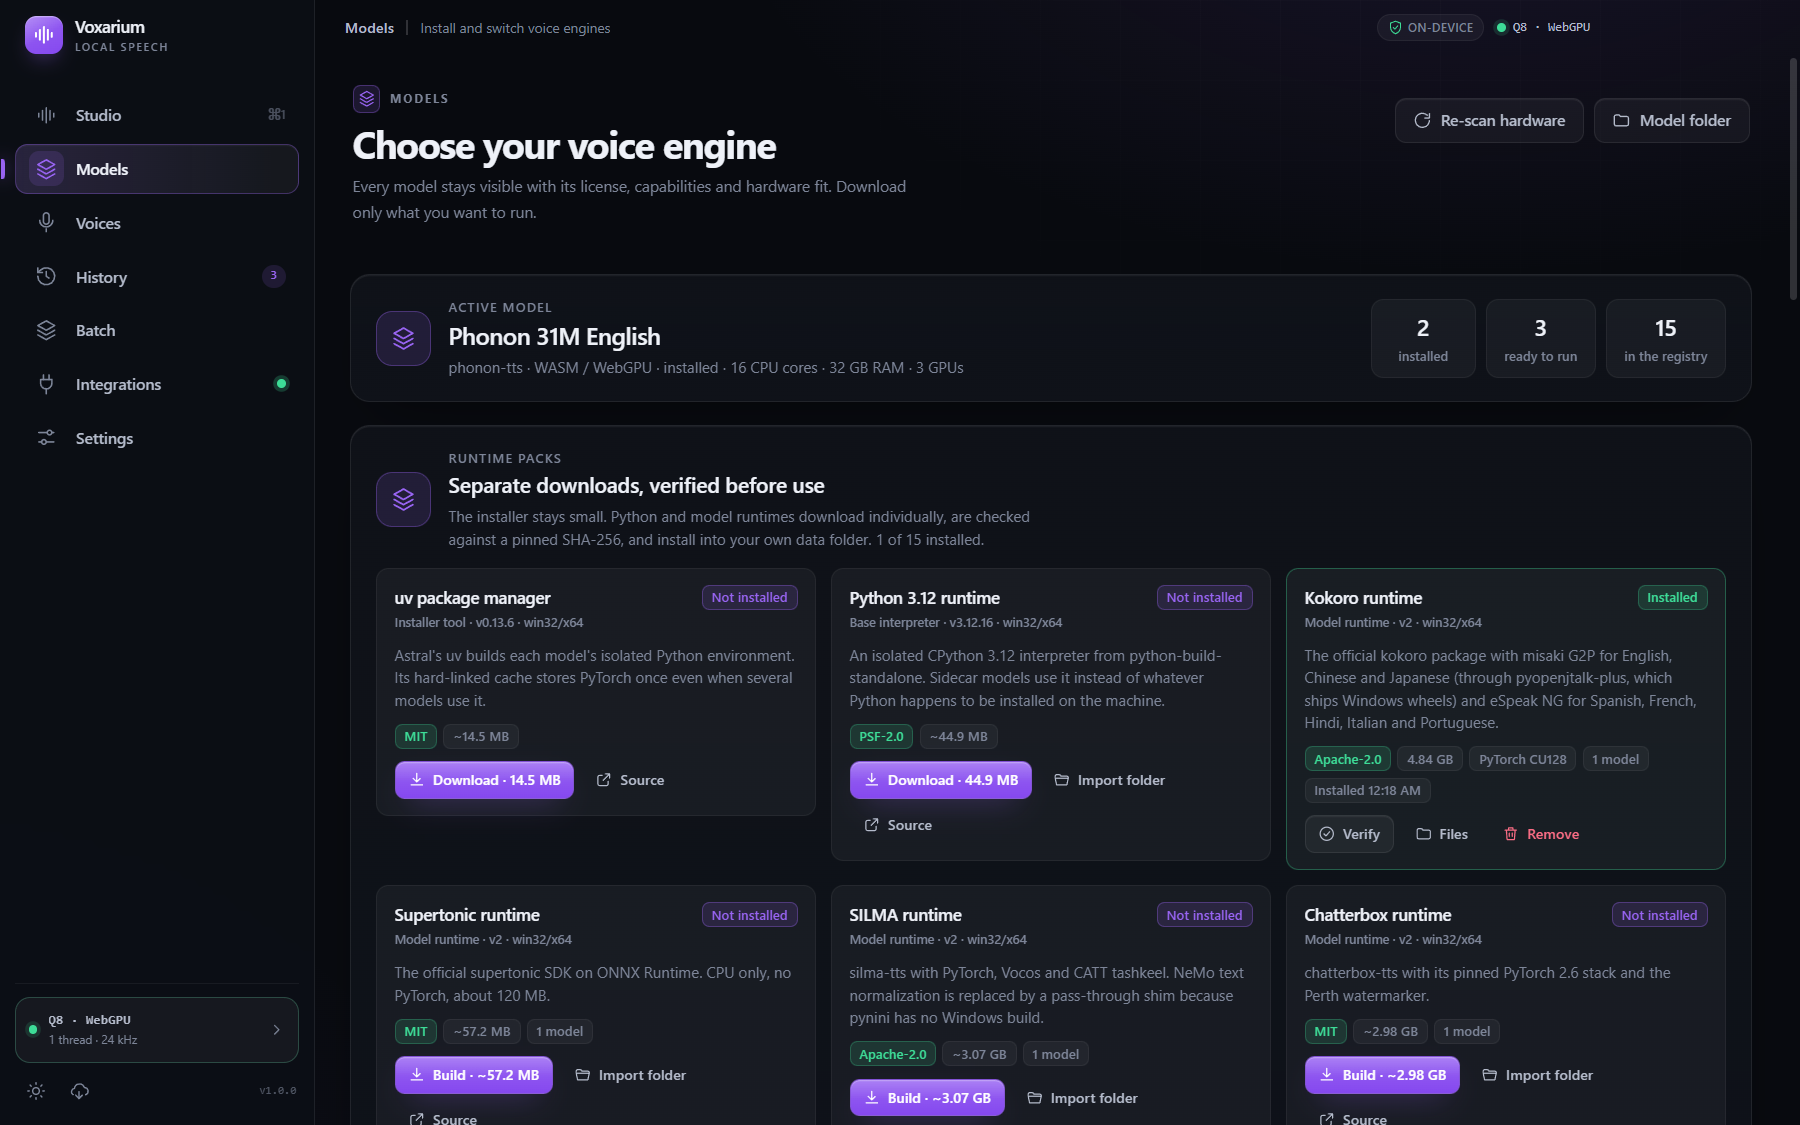
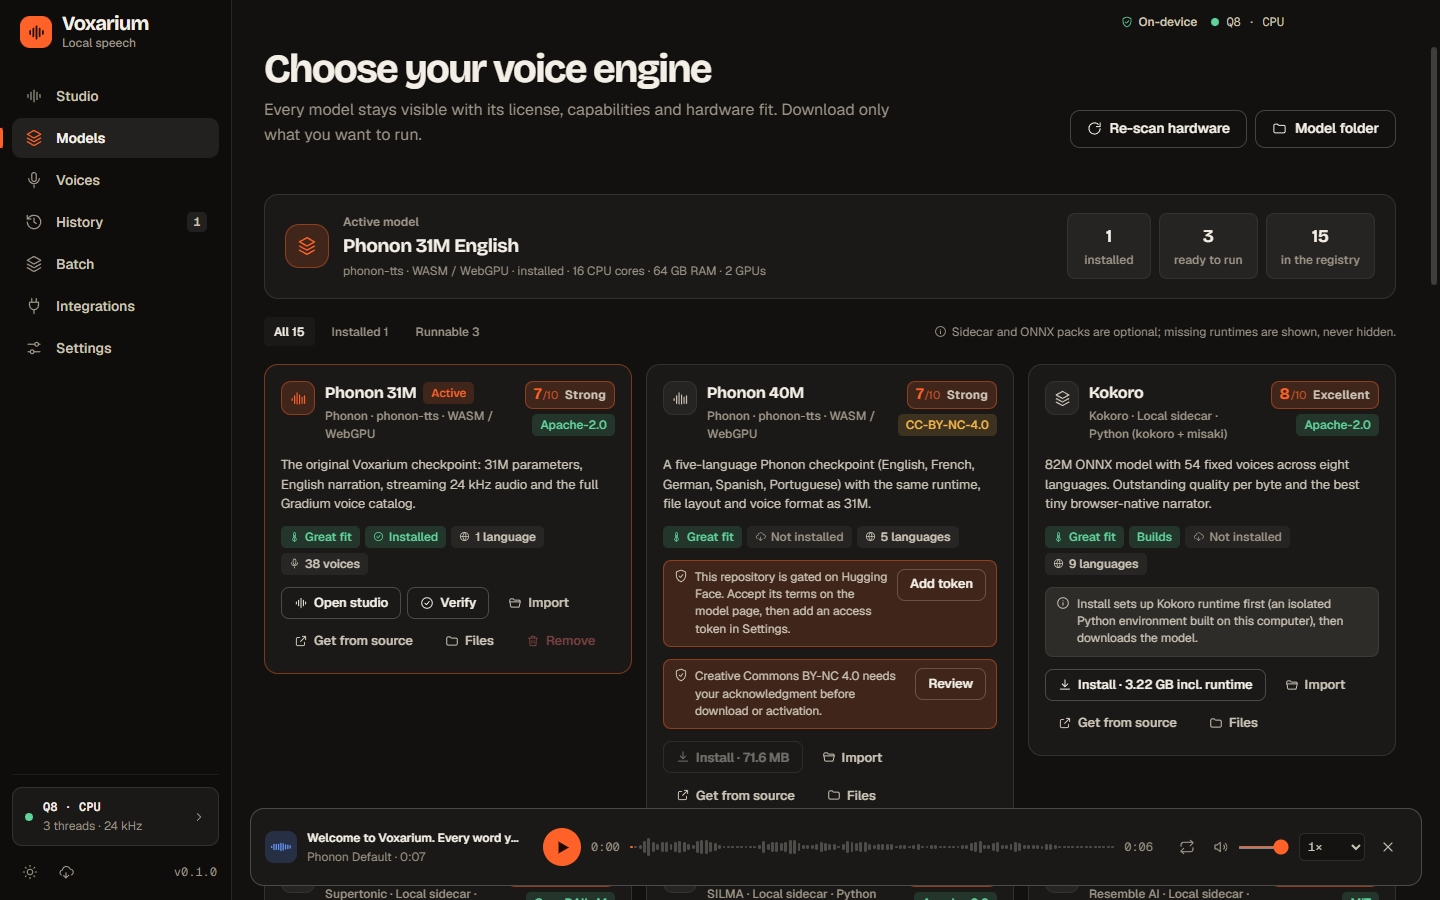
docs: design system note and refreshed screenshots

diff --git a/docs/design-system.md b/docs/design-system.md
@@ -1,0 +1,82 @@
+# Voxarium design system: "Signal"
+
+Voxarium is a tool for people who work with voices, so the interface should feel like a
+well-made studio instrument: warm, quiet, precise, with one loud thing at a time. This note
+records the decisions behind the interface so new screens stay consistent.
+
+All tokens live in [`src/styles/tokens.css`](../src/styles/tokens.css). Pages and components use
+the tokens; they should not hard-code colours, font sizes or radii.
+
+## Principles
+
+1. **One signal.** A single vivid colour (vermilion by default) marks what matters: the primary
+   action, where you are, and live state. If everything is accented, nothing is.
+2. **Flat and warm.** Solid surfaces and hairline borders. No glass, blur, glow, gradient fills or
+   floating hover effects. Neutrals are warm (paper and graphite), never blue-black.
+3. **Type does the work.** Big display titles, readable body text, nothing smaller than 12 px.
+4. **Quiet metadata.** Labels, counts and licences are plain text or small rectangular tags, not
+   rows of pill chips. Show only what is true and useful (a model lists what it *can* do).
+5. **Identical everywhere.** Typefaces are bundled and window chrome is the only OS-specific
+   part, so the app looks the same on Windows, Linux and macOS.
+6. **Accessible by default.** Every text/surface pair meets WCAG AA (body text meets AAA);
+   `npm run check:contrast` verifies all 54 pairs across both themes and all five accents.
+
+## Tokens
+
+| Group | Tokens |
+| --- | --- |
+| Themes | `Graphite` (dark, warm graphite `#121110`) and `Paper` (light, warm paper `#f2eee6`) via `data-theme` |
+| Accents | `signal` (default), `violet`, `cyan`, `amber`, `rose` via `data-accent`. Each defines `--accent` (fills), `--accent-text` (text and icons on the current theme) and `--accent-ink` (text on a fill) |
+| Type | `--font` Geist, `--font-display` Bricolage Grotesque, `--mono` Geist Mono, Noto Sans Arabic as the Arabic fallback. Scale: 12 / 13 / 14 / 16 / 20 / 28 / 40 px |
+| Space | 4 / 8 / 12 / 16 / 20 / 24 / 32 / 40 px (`--space-1` to `--space-8`) |
+| Radius | `--r-xs` 5 · `--r-sm` 8 · `--r-md` 10 · `--r-lg` 14 · `--r-xl` 20. Circles only for dots and the play button |
+| Motion | `--dur-fast` 120 ms, `--dur` 200 ms, `--ease`. `prefers-reduced-motion` is honoured globally |
+
+Fonts ship in the app through `@fontsource-variable/*` (SIL OFL 1.1), imported in `src/main.tsx`.
+Display type is for page titles and big numbers; UI headings use the text face.
+
+## Components
+
+| Component | Variants | Rule |
+| --- | --- | --- |
+| Button (`.btn`) | `primary`, `subtle` (outline), `ghost`, `danger`; sizes `sm` 32, default 38, `lg` 48 | One `primary` per screen area. Secondary actions are `subtle`. Dark ink on the signal colour |
+| Tag (`.tag`) | neutral, `ok`, `warn`, `danger`, `accent` | Rectangular, 22 px, no outline. Status only, not decoration |
+| Chip (`.chip`) | default, `tiny` | Something you can press (filters, suggestions) |
+| Card (`.card`) | n/a | Hairline border, no shadow. Sections inside a side column are separated by lines, not boxed |
+| Field (`.input`, `.select`, `.search`) | n/a | 38 px, accent border and ring on focus |
+| Switch, range, progress | n/a | Solid accent, no glow |
+| Voice avatar (`VoiceAvatar`) | `xs` to `xl` | A tile with the voice's own waveform signature (deterministic from its id) in a tint of its hue. It replaces gradient circles with initials |
+| Page header (`PageHeader`) | n/a | One display title, one optional short line, actions on the right. No eyebrow, no icon tile |
+| Sidebar | n/a | Solid, 232 px, wordmark, active page marked by a signal tick |
+
+## Patterns
+
+- **Studio** is built around the script: the editor is the largest surface, the Generate button sits
+  in its footer, and the voice and delivery settings are a quiet column beside it.
+- **Models** lists models first. Engines and runtimes are an advanced disclosure below.
+- **Support tiers** (Builds, Experimental, Unsupported) appear on model cards for the current system.
+- **Setup assistant** uses a solid signal-colour rail with ink type and a waveform skyline.
+- **Toasts** appear bottom-right above the player so they never cover page actions.
+
+## Platform notes
+
+- Windows and Linux draw their caption buttons over our title bar; macOS keeps its traffic lights at
+  the top-left of the sidebar (`html[data-platform="darwin"]` adjusts the layout).
+- Shortcut labels follow the system: `⌘1` on macOS, `Ctrl+1` elsewhere (`src/lib/platform.ts`).
+
+## Tools
+
+```bash
+npm run shots           # screenshot every page in both themes (needs a build and the Phonon files)
+npm run check:contrast  # WCAG contrast for every token pair
+```
+
+## Do and don't
+
+| Do | Don't |
+| --- | --- |
+| Use `var(--accent)` for the primary action and the active item | Tint backgrounds, borders and icons with the accent "for flair" |
+| Use sentence-case labels at 12 px or larger | Use tracked uppercase micro-labels |
+| Show capabilities a model has | List every capability with a tick or a cross |
+| Use `Ctrl`/`⌘` from `shortcut()` | Hard-code `⌘` |
+| Add a token when a value repeats | Add one-off hex colours or pixel sizes |

diff --git a/README.md b/README.md
@@ -47,7 +47,7 @@ No cloud service, no account and no upload.
 | 🎛 **Voice controls** | Q8/F32 precision, Auto/CPU/WebGPU device, thread count, language normalization, rewrite rules, speaking conditions, pronunciation overrides and reproducible seeds. Controls a model doesn't support are disabled, with the reason shown. |
 | 💾 **Export** | WAV or MP3, with a configurable filename template and default export folder. |
 | 🔌 **API, MCP and CLI** | An OpenAI-compatible API on `127.0.0.1`, an MCP server for AI agents, and a command line, all using the same engine as the Studio. Optional tray mode keeps it running in the background. |
-| 🎨 **Polished shell** | Dark and light themes, four accent colors, a global player with speed and volume controls, remembered window state, and a keyboard shortcut for every page (<kbd>Ctrl</kbd>+<kbd>1</kbd>–<kbd>7</kbd>). |
+| 🎨 **Polished shell** | Graphite (dark) and Paper (light) themes, five accent colors, bundled typefaces so it looks the same on Windows, Linux and macOS, a global player with speed and volume controls, remembered window state, and a keyboard shortcut for every page (<kbd>Ctrl</kbd>+<kbd>1</kbd>–<kbd>7</kbd>). |
 | 🔒 **Privacy gates** | SHA-256-verified downloads, atomic per-model installs, acknowledgments for restricted licenses, loopback-only sidecars, and explicit consent before cloud voice cloning. |
 
 ## Screenshots
@@ -66,7 +66,7 @@ No cloud service, no account and no upload.
     <td><img src="docs/screenshots/settings.png" alt="Settings page with appearance and engine options" /><br /><sub><b>Settings</b>: themes, accents, precision, device and storage.</sub></td>
   </tr>
   <tr>
-    <td colspan="2" align="center"><img src="docs/screenshots/studio-light.png" alt="The Studio in the light theme" width="75%" /><br /><sub>The Studio in the <b>Daylight</b> theme.</sub></td>
+    <td colspan="2" align="center"><img src="docs/screenshots/studio-light.png" alt="The Studio in the light theme" width="75%" /><br /><sub>The Studio in the <b>Paper</b> theme.</sub></td>
   </tr>
 </table>
 
